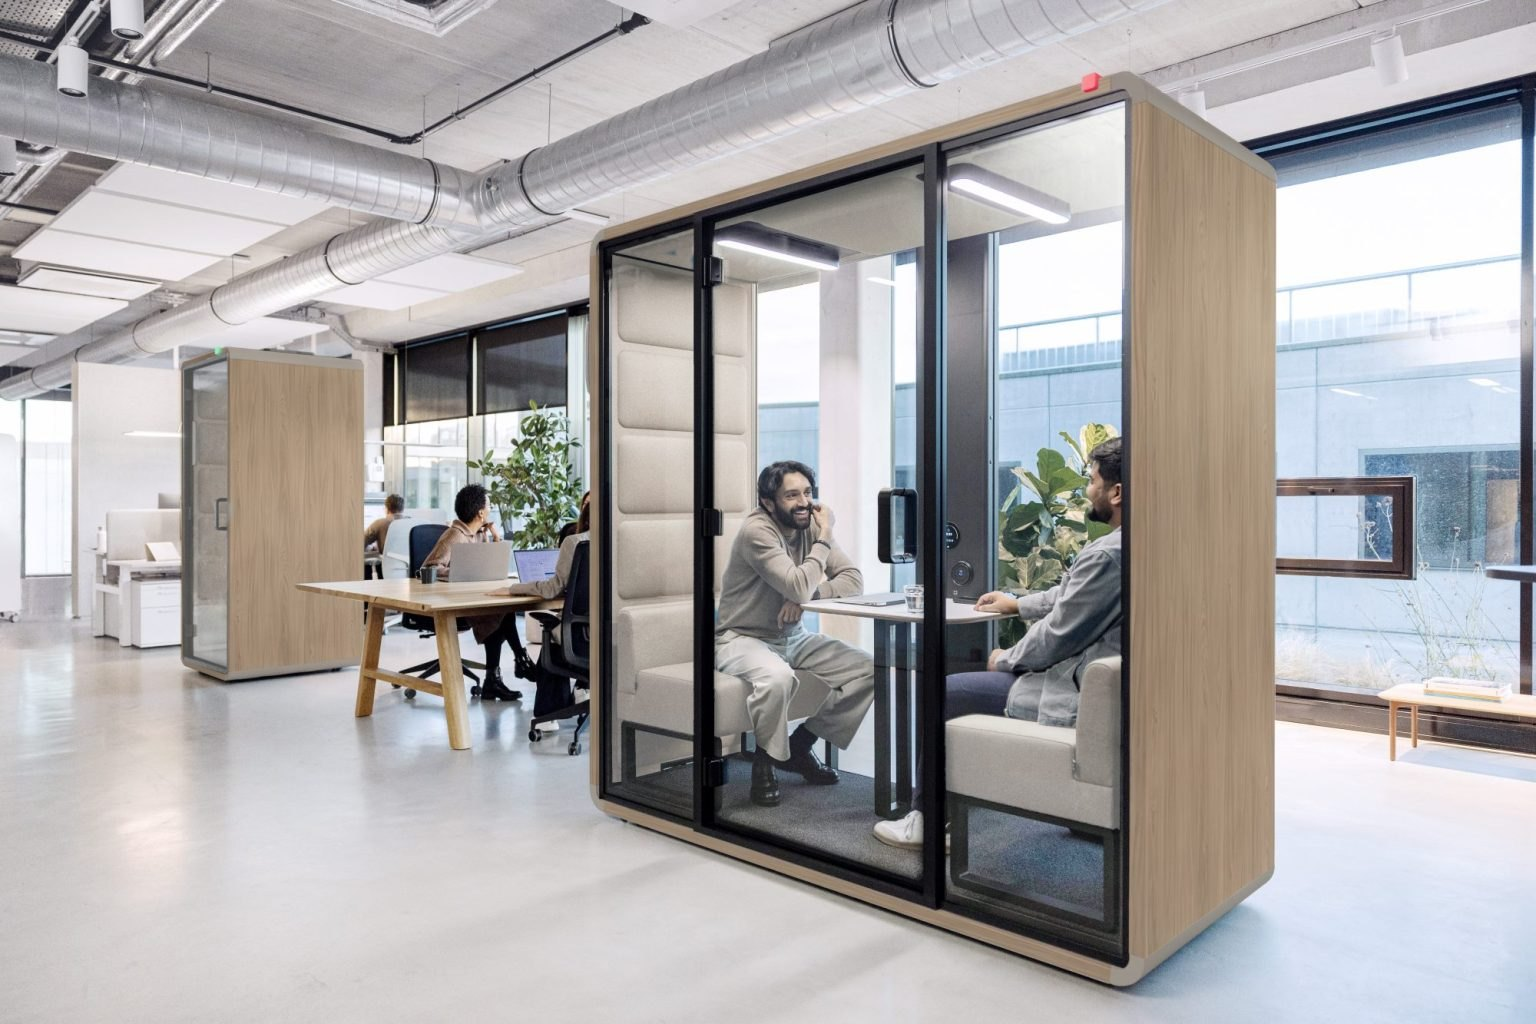
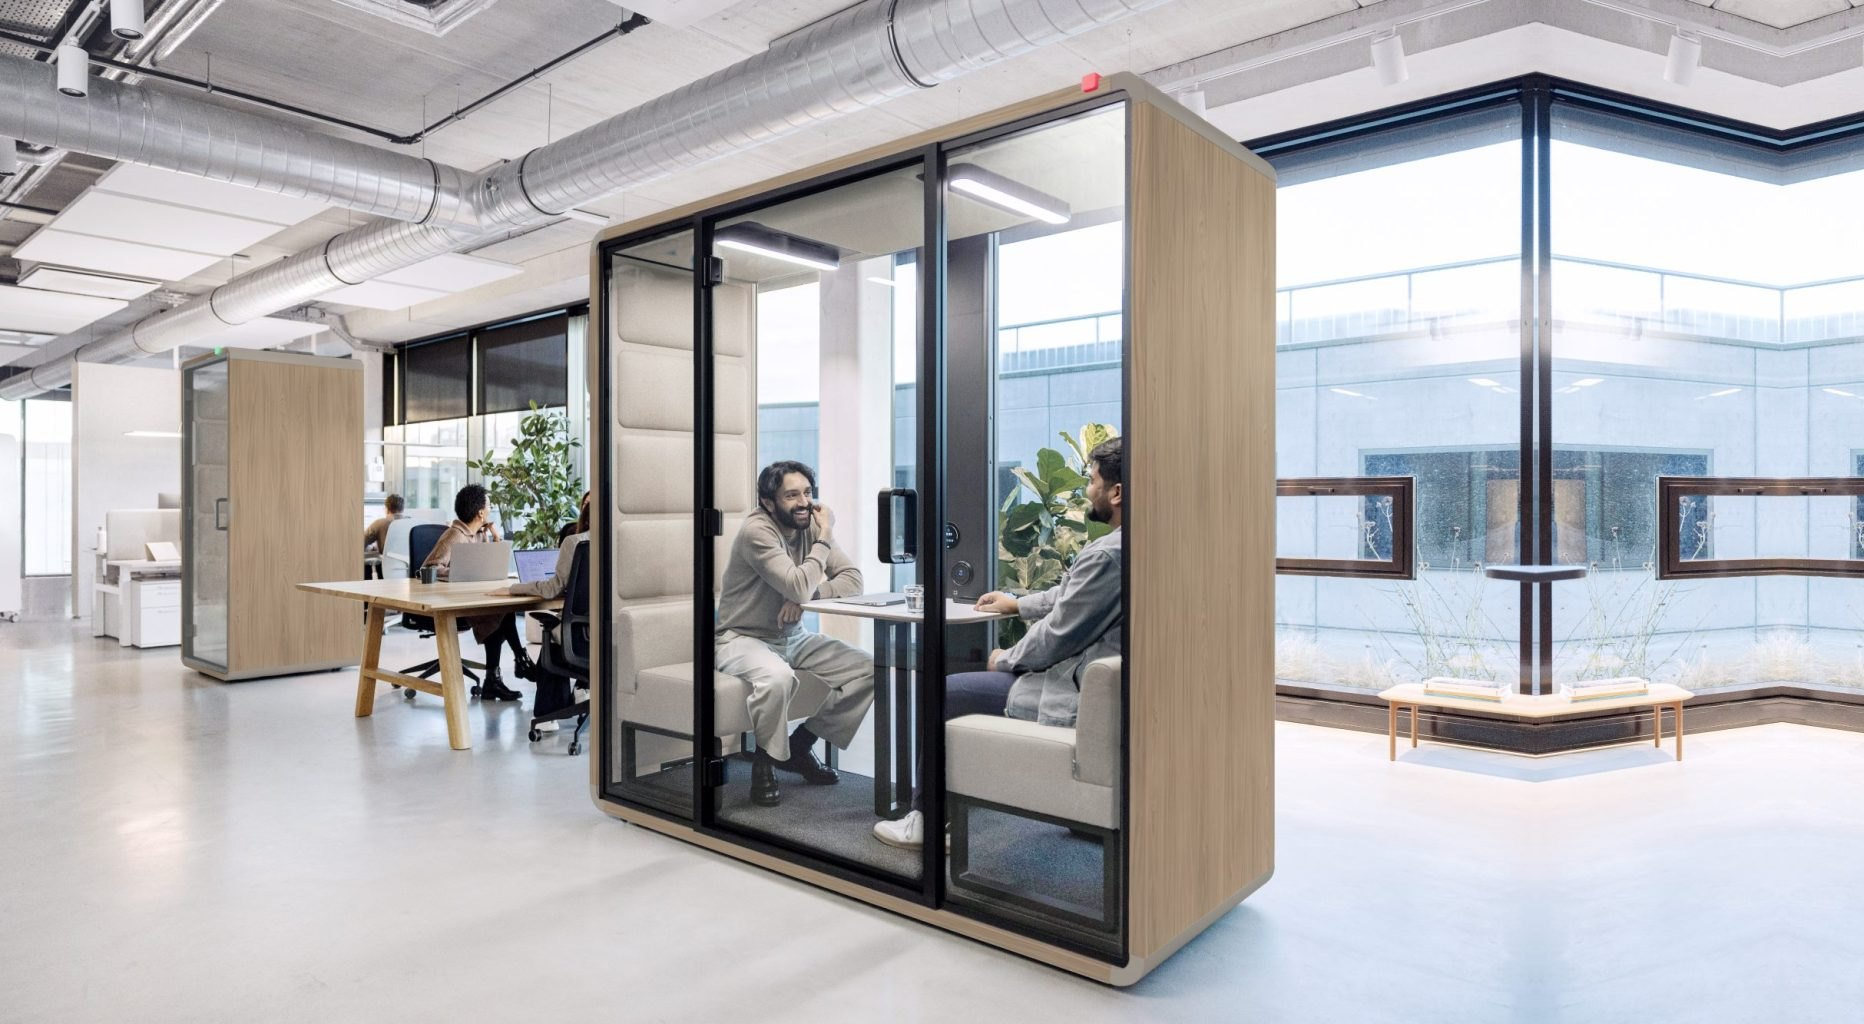
HushFree images: extend background so pods sit centred
Claude-Session: https://claude.ai/code/session_015ArFGLRheboPHWaxxjZRYL

diff --git a/products.js b/products.js
@@ -20,6 +20,6 @@ window.PRODUCTS = [
   { name: "BuzziPlanter", brand: "BuzziSpace", designer: "", image: "img/buzziplanter.jpg" },
   { name: "Hi Pad Stool", brand: "Cappellini", designer: "Jasper Morrison", image: "img/hi-pad-stool.jpg" },
   { name: "Crystal Rug", brand: "GAN", designer: "", image: "img/crystal-rug.jpg" },
-  { name: "HushFree XM | 2 Pax", brand: "HushOffice", designer: "", image: "img/hushfree-xm.jpg", focus: "73% 50%" },
-  { name: "HushFree S Hybrid", brand: "HushOffice", designer: "", image: "img/hushfree-s-hybrid.jpg", focus: "56% 50%" }
+  { name: "HushFree XM | 2 Pax", brand: "HushOffice", designer: "", image: "img/hushfree-xm.jpg" },
+  { name: "HushFree S Hybrid", brand: "HushOffice", designer: "", image: "img/hushfree-s-hybrid.jpg" }
 ];
